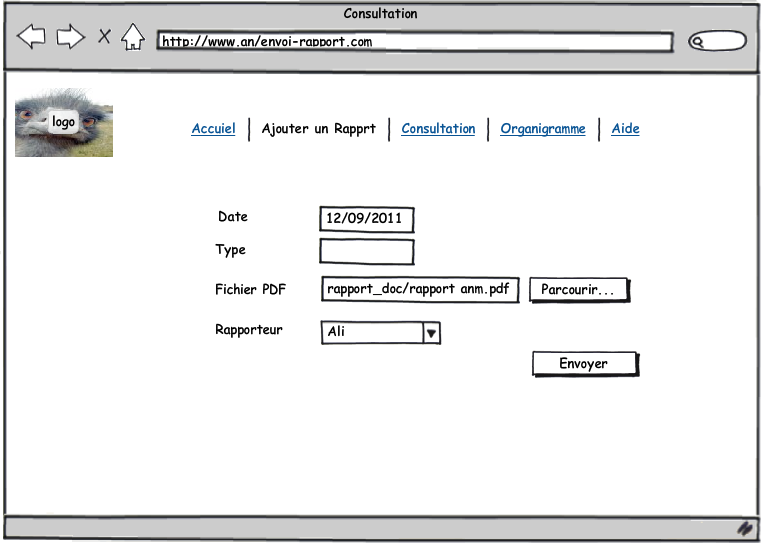
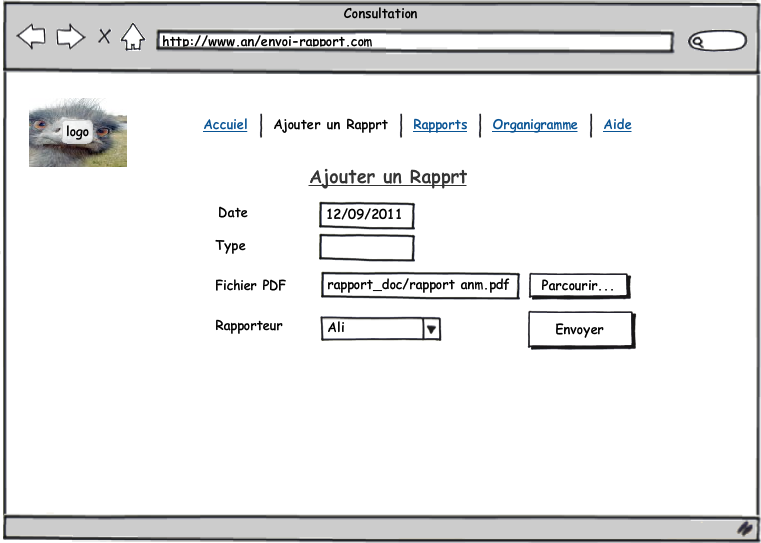
Ajout du téléchargement du fichier pdf et modifictaion amélioration des images dans le docs

diff --git a/anm_site/anm/templates/consultation.html b/anm_site/anm/templates/consultation.html
@@ -1,0 +1,21 @@
+bonjour Fad
+        <table  id="insured_list" class="tablesorter">
+            <thead>
+                <tr>
+                   <th>date </th>
+                   <th> Type </th>
+                   <th> Rapporteur </th>
+                   <th> PDF </th>
+                </tr>
+            </thead>
+            <tbody>
+                {% for element in report %}
+                    <tr>
+                        <td>{{element.date}}</td>
+                        <td>{{element.type_report}}</td>
+                        <td>{{element.author}}</td>
+                        <td> <a href="{{element.url_report}}">Télécharger</a></td>
+                    </tr>
+                {%endfor%}
+            </tbody>
+        </table>

diff --git a/anm_site/anm/views.py b/anm_site/anm/views.py
@@ -2,15 +2,22 @@
 # -*- coding: utf-8 -*-
 # maintainer: Alou & Fadiga
 
+
+import os
+
 from django.shortcuts import render_to_response, redirect
 from django.core.context_processors import csrf
+from django.core.urlresolvers import reverse
+from django.http import HttpResponse
 
 from anm.models import *
 from form import AddReportform
 
+
 def add_organization_chart(request):
 
     return render_to_response('add_organization_chart.html', {})
+
 
 def add_rapport(request):
     """ """
@@ -26,9 +33,21 @@ def add_rapport(request):
     c.update({'form': form})
     return render_to_response('add_rapport.html', c)
 
-def consultation_report(request):
 
+def consultation_report(request):
     """ """
     c = {}
     c.update(csrf(request))
+    reports = Report.objects.all()
+    for report in reports:
+        report.url_report = reverse("download", args=[report.report_pdf])
+    c.update({"report": reports})
     return render_to_response('consultation.html', c)
+
+def download(request, fullpath):
+    """ """
+    response = HttpResponse(file(fullpath).read())
+    #Si c'est un fichier pdf
+    response['Content-Type'] = 'application/pdf'
+    #~ response['Content-disposition'] = 'attachment'
+    return response

diff --git a/anm_site/urls.py b/anm_site/urls.py
@@ -13,6 +13,7 @@ urlpatterns = patterns('',
     url(r'^admin/doc/', include('django.contrib.admindocs.urls')),
 
     url(r'add_organization_chart', "anm.views.add_organization_chart", name="add_organization_chart"),
+    url(r'^download/(?P<fullpath>.*)$', 'anm.views.download', name="download"),
     url(r'add_rapport', "anm.views.add_rapport", name="add_rapport"),
     url(r'consultation_report', "anm.views.consultation_report", name="consultation_report"),
     # Uncomment the next line to enable the admin:
